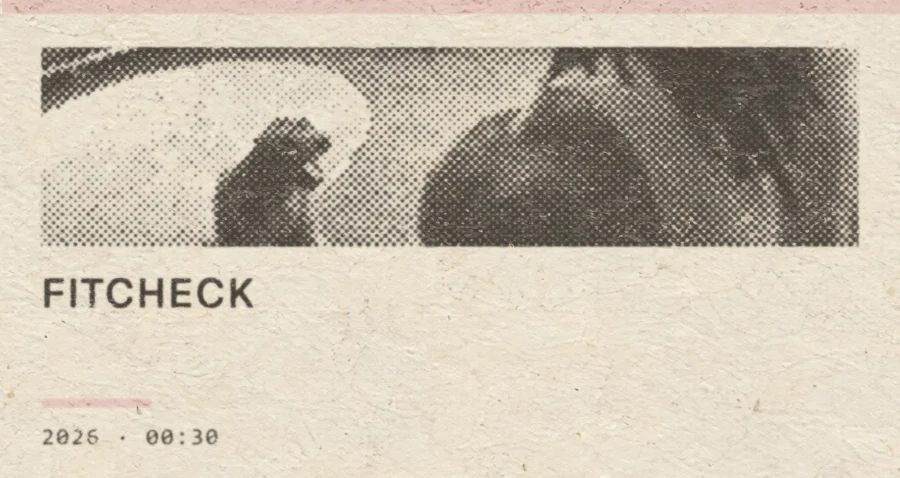
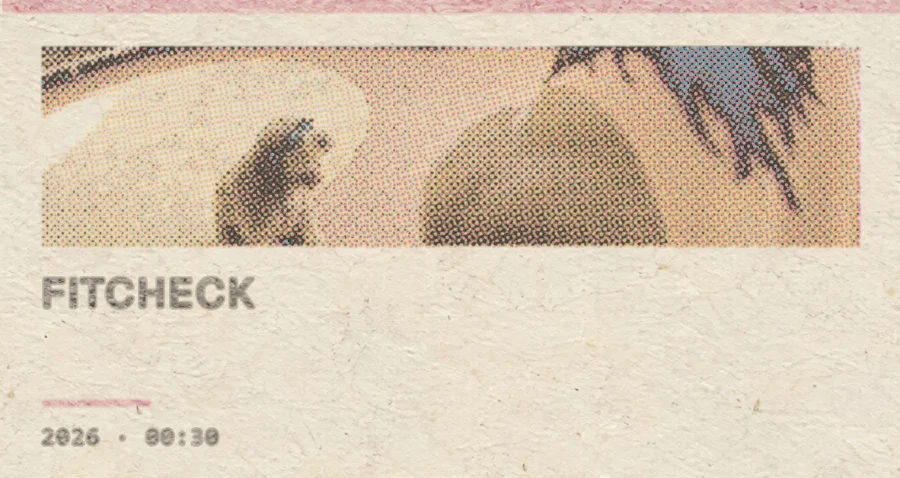
FILM: colour covers in four-colour halftone; no sideways scrolling on phones
- Cover stills on the tape labels are printed as cyan, magenta, yellow and
  black plates at their own screen angles, slightly out of register
- On phones the oversized TV photograph is clipped at the screen edge, so
  the page no longer slides sideways

diff --git a/js/film-labels.js b/js/film-labels.js
@@ -41,7 +41,8 @@
     }
     paperCtx.putImageData(P, 0, 0);
   }
-  function halftone(mask, img, x, y, w, h, cell, angle) {
+  /* One plate of a halftone. plate: 'c', 'm', 'y', 'k' (process colour separation) or 'mono' (a single dark ink). */
+  function halftone(mask, img, x, y, w, h, cell, angle, plate = 'mono') {
     const g = mk(Math.ceil(w / 2), Math.ceil(h / 2)), gx = g.getContext('2d');
     const ar = w / h, ir = img.width / img.height;
     let sw = img.width, sh = img.height, sx = 0, sy = 0;
@@ -54,7 +55,14 @@
       const px = x + w / 2 + u * ca - v * sa, py = y + h / 2 + u * sa + v * ca;
       if (px < x - cell || py < y - cell || px > x + w + cell || py > y + h + cell) continue;
       const ix = clamp(Math.floor((px - x) / 2), 0, g.width - 1), iy = clamp(Math.floor((py - y) / 2), 0, g.height - 1), gi = (iy * g.width + ix) * 4;
-      const lum = Math.min(1, (gd[gi] * .3 + gd[gi + 1] * .59 + gd[gi + 2] * .11) / 255 * 1.35 + .04), dark = 1 - lum;
+      const lift = v => Math.min(1, v / 255 * 1.25 + .03);   // stills are dark; open them up a little for print
+      const r = lift(gd[gi]), gr = lift(gd[gi + 1]), b = lift(gd[gi + 2]);
+      let dark;
+      if (plate === 'mono') dark = 1 - (r * .3 + gr * .59 + b * .11);
+      else {
+        const k = 1 - Math.max(r, gr, b), d = 1 - k || 1;
+        dark = plate === 'k' ? k * .85 : (plate === 'c' ? (1 - r - k) / d : plate === 'm' ? (1 - gr - k) / d : (1 - b - k) / d) * .92;
+      }
       if (dark < .06) continue;
       ctx.beginPath(); ctx.arc(px, py, cell * .62 * Math.sqrt(dark), 0, 6.2832); ctx.fill();
     }
@@ -85,7 +93,6 @@
     const w = 1182, h = 628, pad = 54, c = mk(w, h), cx = c.getContext('2d');
     paperCrop(cx, paper, w, h, i * 3 + 2, .5);
     const k = mk(w, h), kx = k.getContext('2d'); kx.fillStyle = '#000';
-    if (still) halftone(k, still, pad, 62, w - pad * 2, 262, 8, 45);
     // title, wrapped to two lines at most
     const words = t.title.toUpperCase().split(' '), lines = [''];
     kx.font = `600 54px ${SANS}`; if ('letterSpacing' in kx) kx.letterSpacing = '3px';
@@ -95,6 +102,14 @@
     kx.fillText(`${t.sub ? t.sub + ' · ' : ''}${t.year} · ${t.run}`, pad, h - 44);
     const ac = mk(w, h), ax = ac.getContext('2d'); ax.fillStyle = '#000';
     ax.fillRect(0, 0, w, 18); ax.fillRect(pad, h - 100, 140, 7);
+    // the cover still in four process inks, each plate screened at its own angle and laid down slightly out of register
+    if (still) {
+      const plates = [['y', 0, [238, 208, 86], -1, 2, .58], ['m', 75, [206, 70, 124], 2, 1, .62], ['c', 15, [40, 140, 190], 0, 0, .72], ['k', 45, INK, 1, -1, .85]];
+      for (const [p, ang, ink, dx, dy, dens] of plates) {
+        const pm = mk(w, h); halftone(pm, still, pad, 62, w - pad * 2, 262, 7, ang, p);
+        printInk(cx, w, h, soften(pm, 1.2), ink, { dx, dy, density: dens, tooth: .6, rough: .6 });
+      }
+    }
     printInk(cx, w, h, soften(k, 1.5), INK, { density: .82, tooth: .7, rough: .75 });
     printInk(cx, w, h, soften(ac, 1.5), hexRgb(t.accent), { dx: 3, dy: -2, density: .72, tooth: .7 });
     return c;

diff --git a/css/film.css b/css/film.css
@@ -176,7 +176,10 @@ body.is-off #vol-down, body.is-off #tv-power { filter: saturate(.2); }
 .info a:hover { color: var(--ink); }
 
 @media (max-width: 700px) {
-  html, body { height: auto; overflow: auto; }
+  html, body { height: auto; overflow: visible; }
+  /* the TV photograph is wider than a phone: cut it at the edge of the screen so the page never slides sideways */
+  .set { overflow-x: clip; }
+  html { overflow-x: clip; overscroll-behavior-x: none; }
   .film-page { --tvw: calc(100vw * 1.36); }
   .set { position: relative; left: auto; top: auto; transform: none; margin-top: 150px; flex-direction: column; align-items: center; gap: calc(var(--tvw) * .04); }
   .shelf { align-self: center; margin-bottom: 0; }

diff --git a/film.html b/film.html
@@ -12,7 +12,7 @@
 <link rel="preconnect" href="https://player.vimeo.com" crossorigin>
 <link rel="preconnect" href="https://f.vimeocdn.com" crossorigin>
 <link rel="stylesheet" href="css/portfolio-shell.css?v=intro-specimen">
-<link rel="stylesheet" href="css/film.css?v=21">
+<link rel="stylesheet" href="css/film.css?v=23">
 </head>
 <body class="film-page">
 <svg width="0" height="0" style="position:absolute" aria-hidden="true" focusable="false">
